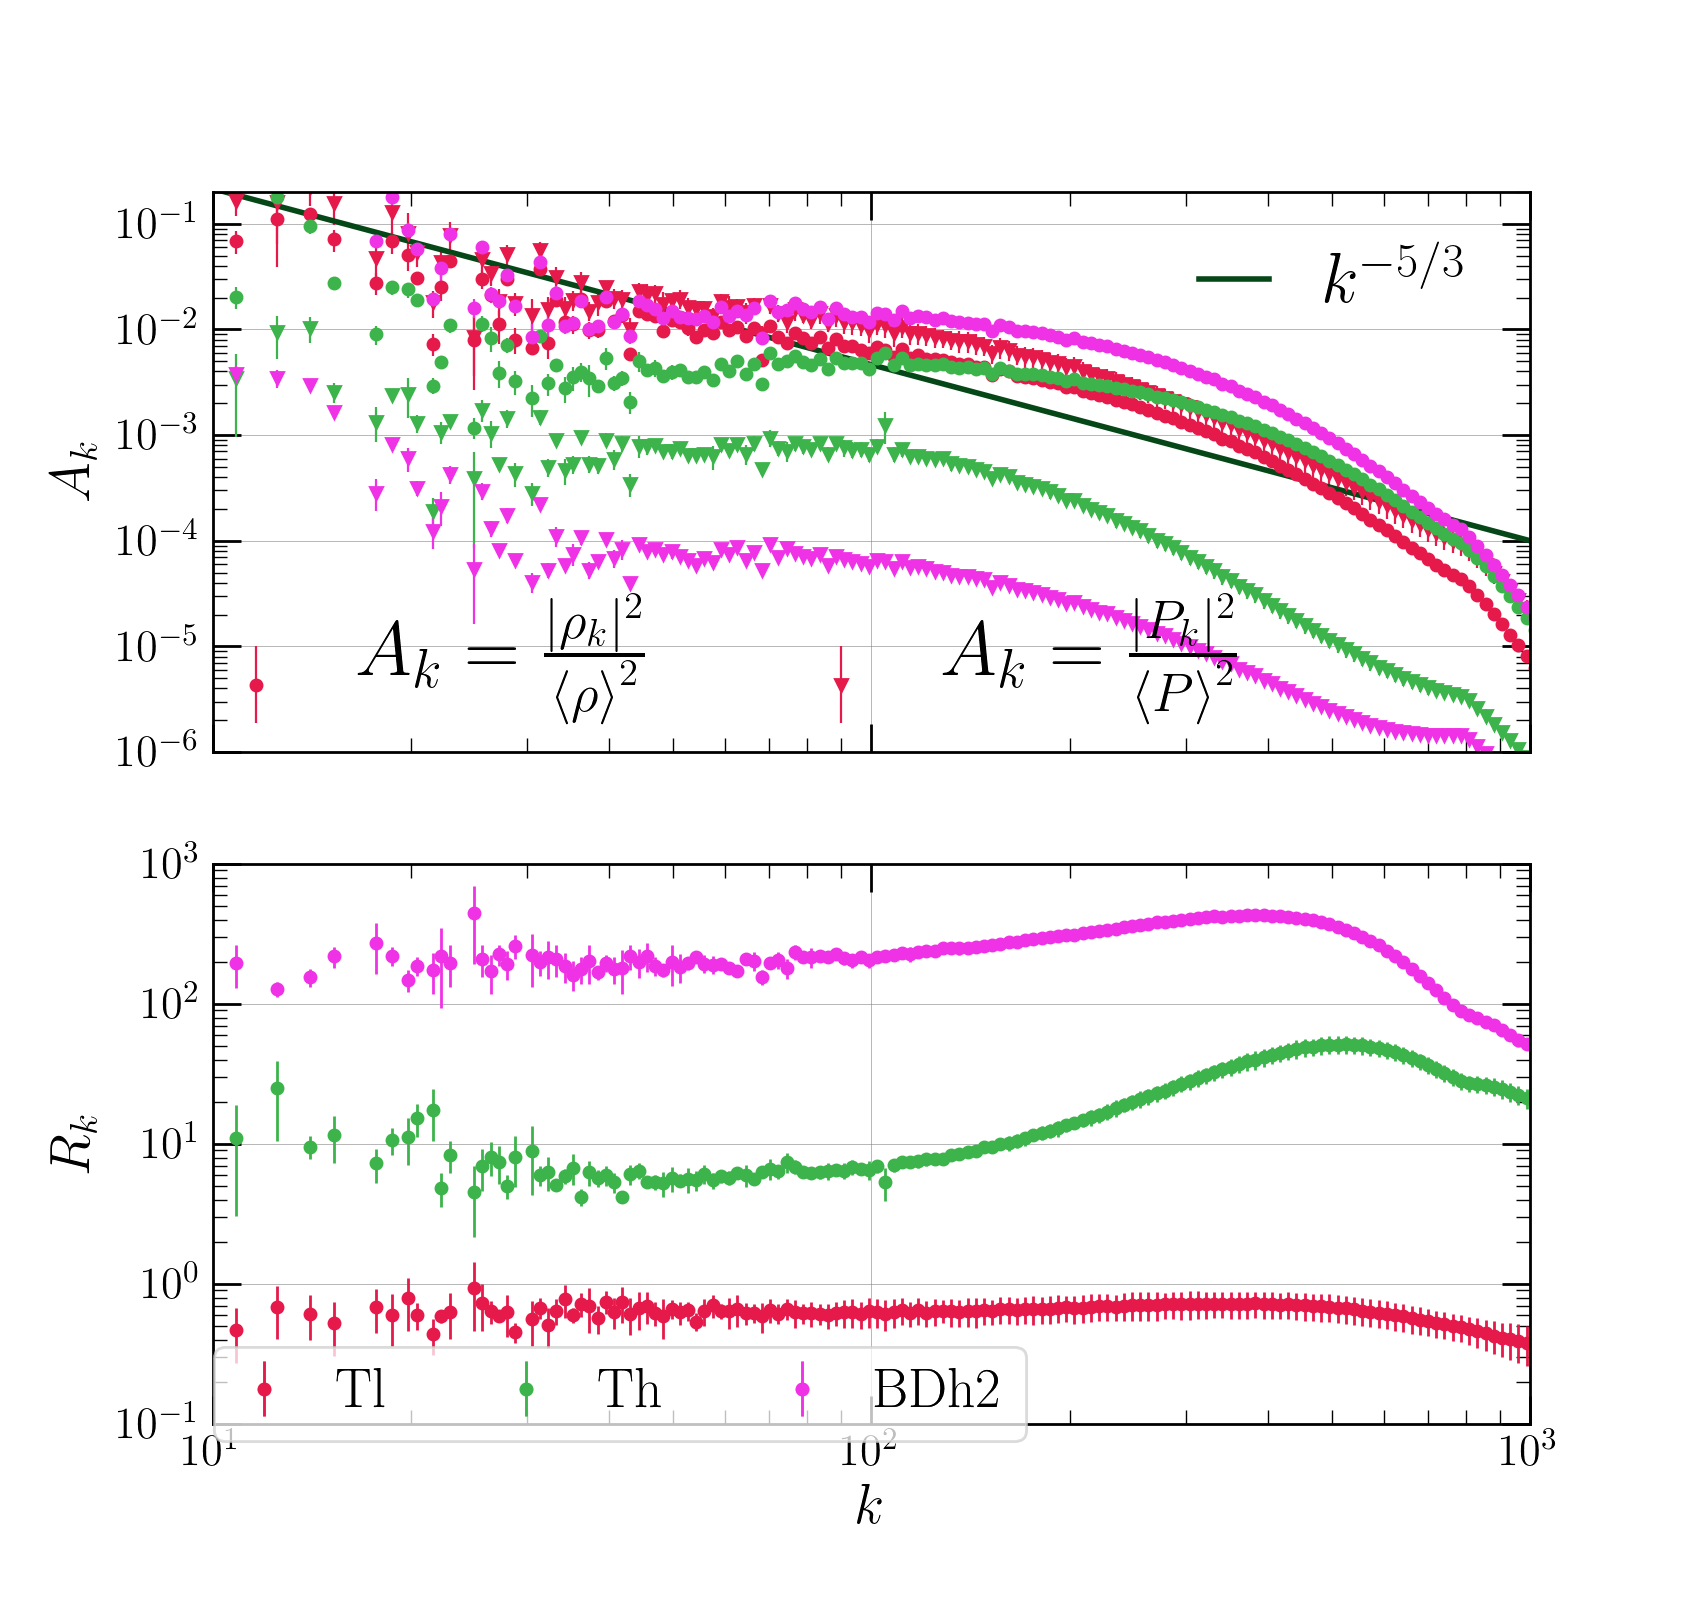
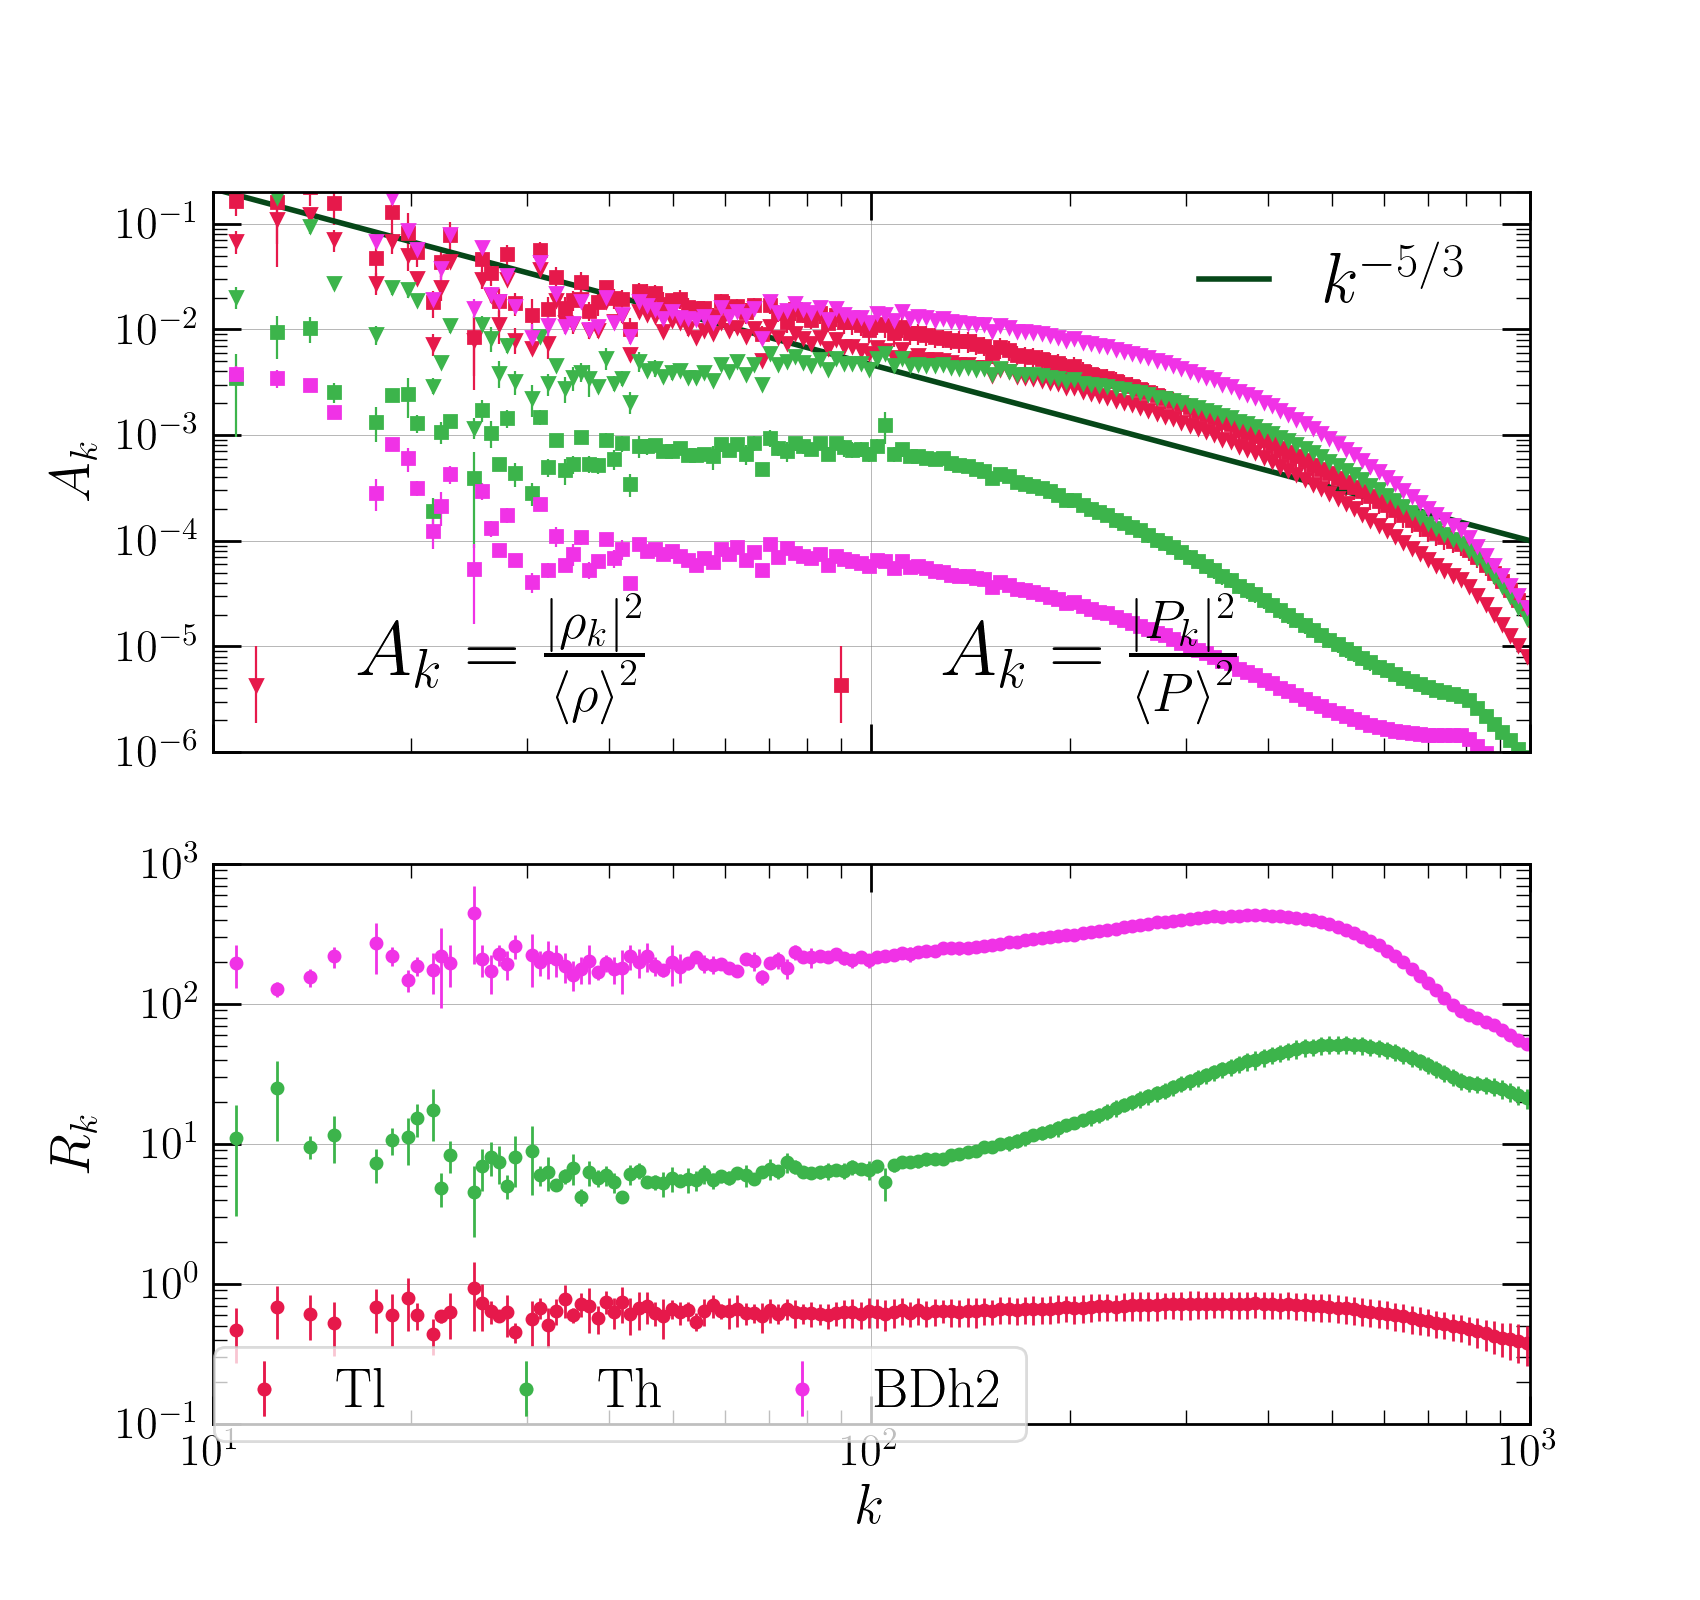
Edited plots

diff --git a/for_conference/rho-prs-spectra-cool.py b/for_conference/rho-prs-spectra-cool.py
@@ -87,14 +87,14 @@ for i in xrange(0, start.size):
                 leg2=r'$A_k=\frac{|P_k|^2}{\left<P\right>^2}$'
 	#Plot original power spectra
 	#first velocity spectra
-		spectra[2*i]=ax1.errorbar(k1[1:-10],Ek1[1:-10], yerr=del_Ek1[1:-10], color=colors[j1], fmt='o', markeredgecolor=None, ecolor=None, capsize=None, barsabove=False, label=leg1, markersize=4., elinewidth=0.8)
+		spectra[2*i]=ax1.errorbar(k1[1:-10],Ek1[1:-10], yerr=del_Ek1[1:-10], color=colors[j1], fmt='v', markeredgecolor=None, ecolor=None, capsize=None, barsabove=False, label=leg1, markersize=4., elinewidth=0.8)
 
-		spectra[2*i+1]=ax1.errorbar(k1[1:-10],Ek2[1:-10], yerr=del_Ek2[1:-10], color=colors[j1], fmt='v', markeredgecolor=None, ecolor=None, capsize=None, barsabove=False, label=leg2, markersize=4., elinewidth=0.8)
+		spectra[2*i+1]=ax1.errorbar(k1[1:-10],Ek2[1:-10], yerr=del_Ek2[1:-10], color=colors[j1], fmt='s', markeredgecolor=None, ecolor=None, capsize=None, barsabove=False, label=leg2, markersize=4., elinewidth=0.8)
 	elif (i<num_plots):
 		if(i==2):j1=i+5
-		ax1.errorbar(k1[1:-10],Ek1[1:-10], yerr=del_Ek1[1:-10], color=colors[j1], fmt='o', markeredgecolor=None, ecolor=None, capsize=None, barsabove=False, markersize=4., elinewidth=0.8)
+		ax1.errorbar(k1[1:-10],Ek1[1:-10], yerr=del_Ek1[1:-10], color=colors[j1], fmt='v', markeredgecolor=None, ecolor=None, capsize=None, barsabove=False, markersize=4., elinewidth=0.8)
 
-		ax1.errorbar(k1[1:-10],Ek2[1:-10], yerr=del_Ek2[1:-10], color=colors[j1], fmt='v', markeredgecolor=None, ecolor=None, capsize=None, barsabove=False, markersize=4., elinewidth=0.8)
+		ax1.errorbar(k1[1:-10],Ek2[1:-10], yerr=del_Ek2[1:-10], color=colors[j1], fmt='s', markeredgecolor=None, ecolor=None, capsize=None, barsabove=False, markersize=4., elinewidth=0.8)
 
 	#Plot ratio
 	if (i<start.size):
